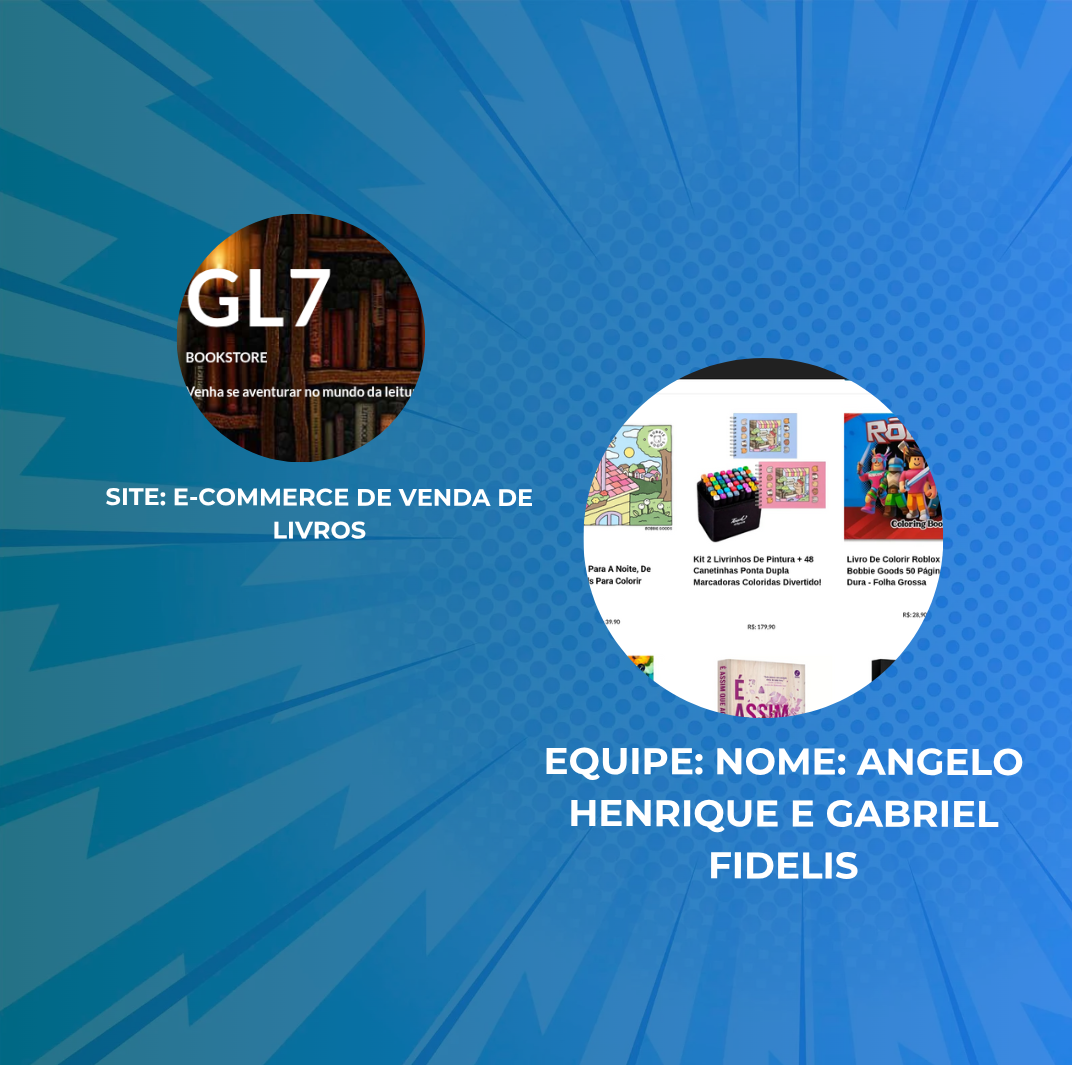
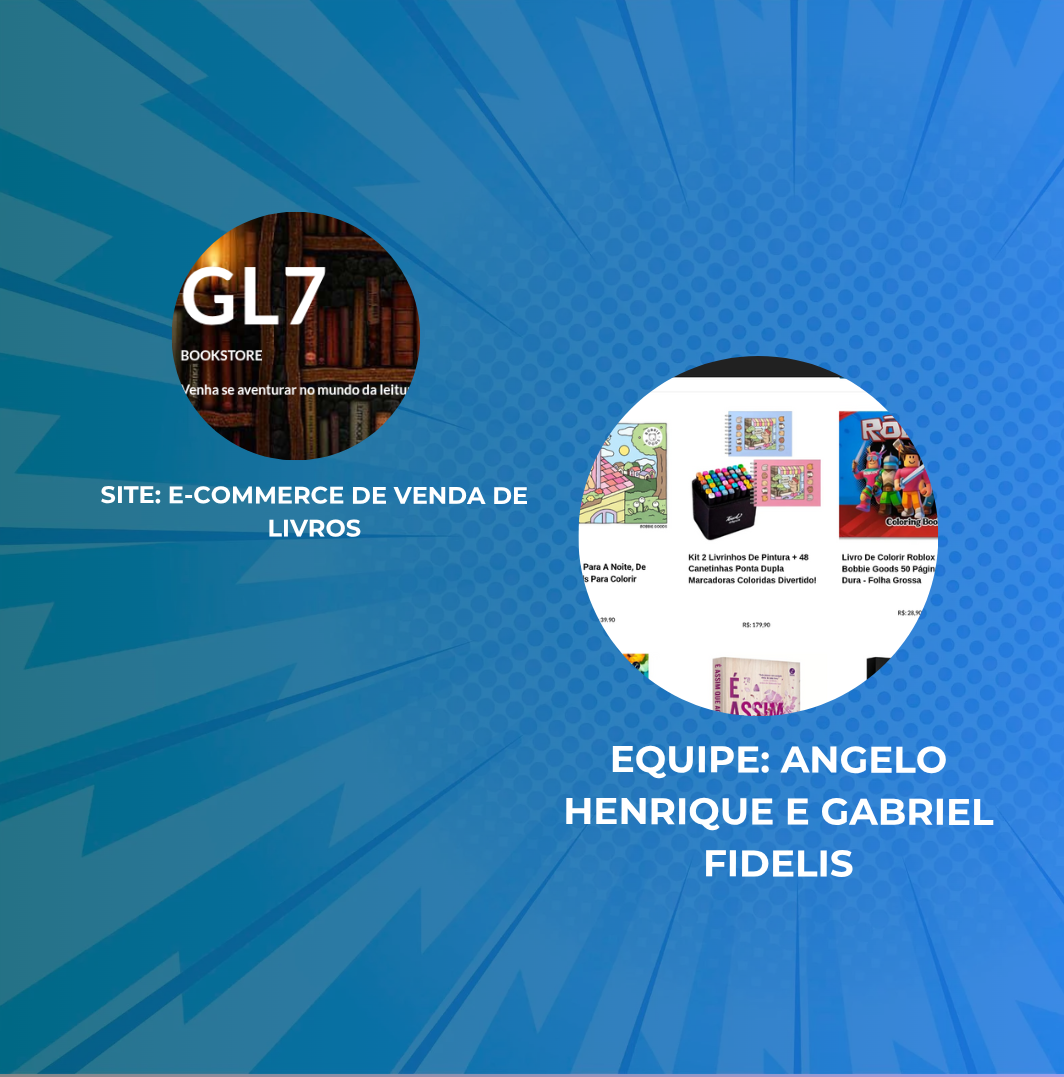
up

diff --git a/index.html b/index.html
@@ -117,7 +117,7 @@
                             <div class="card">
                             <img src="img/alunos/angelo.png" class="card-img-top" alt="...">
                             <div class="card-body">
-                                <h5 class="card-title"> Equipe: Nome: Angelo Henrique e Gabriel Fidelis </h5>
+                                <h5 class="card-title"> Equipe: Angelo Henrique e Gabriel Fidelis </h5>
                                 <p class="card-text">
                                     Temos como objetivo oferecer uma plataforma digital eficiente para a venda de livros, 
                                     promovendo o incentivo à leitura direcionado a diversos gêneros do mundo literário.</p>
@@ -128,10 +128,13 @@
 
                         <div class="col">
                             <div class="card">
-                            <img src="..." class="card-img-top" alt="...">
+                            <img src="img/alunos/fernanda.png" class="card-img-top" alt="...">
                             <div class="card-body">
-                                <h5 class="card-title">Card title</h5>
-                                <p class="card-text">This is a longer card with supporting text below as a natural lead-in to additional content. This content is a little bit longer.</p>
+                                <h5 class="card-title">Equipe: Fernanda Vitória, Victor Emanoel, Elias Oliveira.</h5>
+                                <p class="card-text">O projeto “HollaHello” consiste em ser uma nova ferramenta de ensino de línguas 
+                                    estrangeiras na modalidade do idioma inglês e espanhol para todas as idades. Trazendo uma expectativa 
+                                    fofa e colorida, nosso site interativo é composto de atividades e quizzes que tem como função melhorar 
+                                    a aprendizagem dos usuários com exercícios de escrita, gramática,vocabulário e entre outros.</p>
                             </div>
                             </div>
                         </div>
